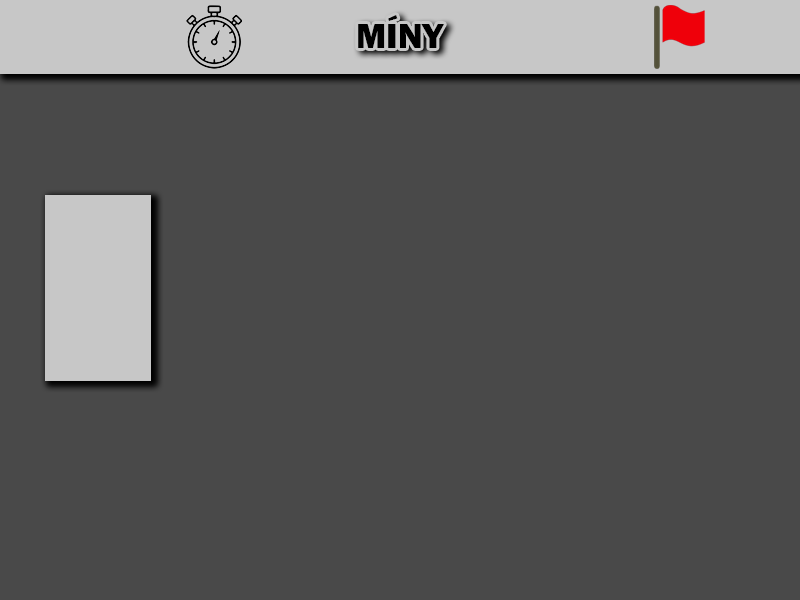
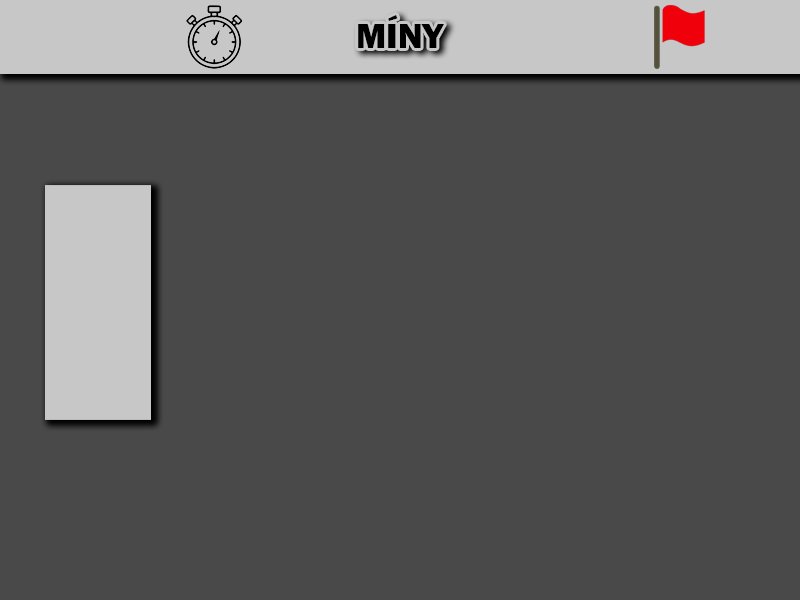
Added new game button

Changed region(s): [[0.0312, 0.63, 0.2188, 0.72], [0.0312, 0.3, 0.2188, 0.33]]

diff --git a/Miny.java b/Miny.java
@@ -11,30 +11,42 @@ public class Miny {
     private int pocetMin;
     private boolean hraSa;
     
-    public Miny(int rozmer, int velkostPolicok, int pocetMin) {
-        //Centrovanie hracej oblasti
-        int polohaX = 400 - (rozmer * (velkostPolicok + 1) + 1) / 2;
-        int polohaY = 300 - (rozmer * (velkostPolicok + 1) + 1) / 2;
+    public Miny() {
+        SystemUkladania ins = SystemUkladania.dajInstanciu();
+        this.pocetMin = ins.getUdaj("pocetMin");
+        int rozmer = ins.getUdaj("rozmer");
 
         this.pozadie = new Obrazok(Obrazky.POZADIE.getCesta());
         this.pozadie.zmenVelkost(800, 600);
         this.pozadie.zmenPolohu(400, 300);
         this.pozadie.zobraz();
 
-        this.mriezka = new Mriezka(polohaX, polohaY, rozmer, velkostPolicok, pocetMin);
+        this.vytvorMriezku(rozmer);
         this.casovac = new Casovac(5, 5, 25);
         this.displejMin = new Displej(720, 5, 25, -1);
-        this.pocetMin = pocetMin;
         this.aktualizujDisplej(this.pocetMin);
         this.tlacidla = new ArrayList<>();
         
-        this.registrujTlacidlo(new Tlacidlo(75, 25, 50, 200, "Reštart", 20, Tlacidla.RESTART));
-        this.registrujTlacidlo(new Tlacidlo(95, 25, 50, 250, "Nápoveda", 20, Tlacidla.NAPOVEDA));
-        this.registrujTlacidlo(new Tlacidlo(75, 25, 50, 300, "Rekord", 20, Tlacidla.REKORD));
-        this.registrujTlacidlo(new Tlacidlo(70, 25, 50, 350, "Koniec", 20, Tlacidla.KONIEC));
+        this.registrujTlacidlo(new Tlacidlo(85, 25, 50, 190, "Nová hra", 20, Tlacidla.NOVA));
+        this.registrujTlacidlo(new Tlacidlo(75, 25, 50, 240, "Reštart", 20, Tlacidla.RESTART));
+        this.registrujTlacidlo(new Tlacidlo(95, 25, 50, 290, "Nápoveda", 20, Tlacidla.NAPOVEDA));
+        this.registrujTlacidlo(new Tlacidlo(75, 25, 50, 340, "Rekord", 20, Tlacidla.REKORD));
+        this.registrujTlacidlo(new Tlacidlo(70, 25, 50, 390, "Koniec", 20, Tlacidla.KONIEC));
         
         this.hraSa = true;
         new Manazer(this);
+    }
+
+    private void vytvorMriezku(int rozmer) {
+        if (this.mriezka != null) {
+            this.mriezka.skry();
+        }
+        int velkostPolicok = 350 / (rozmer + 1);
+        //Centrovanie hracej oblasti
+        int polohaX = 400 - (rozmer * (velkostPolicok + 1) + 1) / 2;
+        int polohaY = 300 - (rozmer * (velkostPolicok + 1) + 1) / 2;
+
+        this.mriezka = new Mriezka(polohaX, polohaY, rozmer, velkostPolicok, this.pocetMin);
     }
 
     public void klik(int x, int y, boolean laveTlacidlo) {
@@ -63,6 +75,9 @@ public class Miny {
             }
             
             switch (tlacidlo.getId()) {
+                case NOVA:
+                    this.novaHra();
+                    break;
                 case RESTART:
                     this.casovac.vynuluj();
                     this.hraSa = true;
@@ -116,7 +131,7 @@ public class Miny {
             return "Ešte nemáš žiadny osobný rekord";
         }
 
-        return String.format("Tvoj osobný rekord je %s:%s", Casovac.getHodnotaSNulou(minuty), Casovac.getHodnotaSNulou(sekundy));
+        return String.format("Tvoj osobný rekord je %s:%s", Operacie.getHodnotaSNulou(minuty), Operacie.getHodnotaSNulou(sekundy));
     }
 
     private void aktualizujRekord() {
@@ -130,5 +145,30 @@ public class Miny {
             ins.aktualizujUdaj("sekundy", novyCas[1]);
             return;
         }
+    }
+
+    private void novaHra() {
+        int rozmer = this.vypytajVstup("Zadaj rozmer NxN (0 - 30):", 0, 30);
+        this.pocetMin = this.vypytajVstup(String.format("Zadaj počet mín (0 - %d):", rozmer * rozmer - 2), 0, rozmer * rozmer - 2);
+
+        SystemUkladania.dajInstanciu().aktualizujUdaj("minuty", -1);
+        SystemUkladania.dajInstanciu().aktualizujUdaj("sekundy", -1);
+        SystemUkladania.dajInstanciu().aktualizujUdaj("pocetMin", this.pocetMin);
+        SystemUkladania.dajInstanciu().aktualizujUdaj("rozmer", rozmer);
+
+        this.vytvorMriezku(rozmer);
+        this.hraSa = true;
+        this.aktualizujDisplej(this.pocetMin);
+        this.casovac.vynuluj();
+    }
+
+    private int vypytajVstup(String text, int min, int max) {
+        String zadane;
+
+        do {
+            zadane = JOptionPane.showInputDialog(null, text);
+        } while (!Operacie.jeCislo(zadane) || Integer.parseInt(zadane) < min || Integer.parseInt(zadane) > max);
+
+        return Integer.parseInt(zadane);
     }
 }

diff --git a/SystemUkladania.java b/SystemUkladania.java
@@ -2,15 +2,14 @@ import java.util.Scanner;
 import java.io.File;
 import java.io.IOException;
 import java.io.PrintWriter;
-import java.util.HashMap;
-import java.util.Map;
+import java.util.LinkedHashMap;
 
 public class SystemUkladania {
 
     private static SystemUkladania instancia = null;
     
     private static final String SUBOR = "save.txt";
-    private Map<String, Integer> udaje;
+    private LinkedHashMap<String, Integer> udaje;
 
     public static SystemUkladania dajInstanciu() {
         if (SystemUkladania.instancia == null) {
@@ -21,7 +20,7 @@ public class SystemUkladania {
     }
 
     private SystemUkladania() {
-        this.udaje = new HashMap<String, Integer>();
+        this.udaje = new LinkedHashMap<String, Integer>();
 
         try {
             this.nacitajUdaje();

diff --git a/Casovac.java b/Casovac.java
@@ -35,13 +35,6 @@ public class Casovac implements IUIPrvok {
 
     public String getFromatovanyCas() {
         int[] cas = this.getCas();
-        return String.format("%s:%s", Casovac.getHodnotaSNulou(cas[0]), Casovac.getHodnotaSNulou(cas[1]));
-    }
-
-    public static String getHodnotaSNulou(int hodnota) {
-        if (hodnota < 10) {
-            return "0" + String.valueOf(hodnota);
-        }
-        return String.valueOf(hodnota);
+        return String.format("%s:%s", Operacie.getHodnotaSNulou(cas[0]), Operacie.getHodnotaSNulou(cas[1]));
     }
 }

diff --git a/Operacie.java b/Operacie.java
@@ -1,0 +1,19 @@
+public class Operacie {
+
+    public static String getHodnotaSNulou(int hodnota) {
+        if (hodnota < 10) {
+            return "0" + String.valueOf(hodnota);
+        }
+        return String.valueOf(hodnota);
+    }
+
+    public static boolean jeCislo(String text) {
+        try {
+            Integer.parseInt(text);
+        } catch (NumberFormatException exception) {
+            return false;
+        }
+
+        return true;
+    }
+}

diff --git a/Udaje.java b/Udaje.java
@@ -1,6 +1,8 @@
 public enum Udaje {
     MINUTY("minuty", -1),
-    SEKUNDY("sekundy", -1);
+    SEKUNDY("sekundy", -1),
+    MINY("pocetMin", 20),
+    ROZMER("rozmer", 15);
 
     private String string;
     private int pociatocnaHodnota;

diff --git a/Start.java b/Start.java
@@ -1,5 +1,5 @@
 public class Start {
     public static void main(String[] args) {
-        new Miny(15, 20, 20);
+        new Miny();
     }
 }

diff --git a/Tlacidla.java b/Tlacidla.java
@@ -1,4 +1,5 @@
 public enum Tlacidla {
+    NOVA,
     RESTART,
     NAPOVEDA,
     REKORD,
